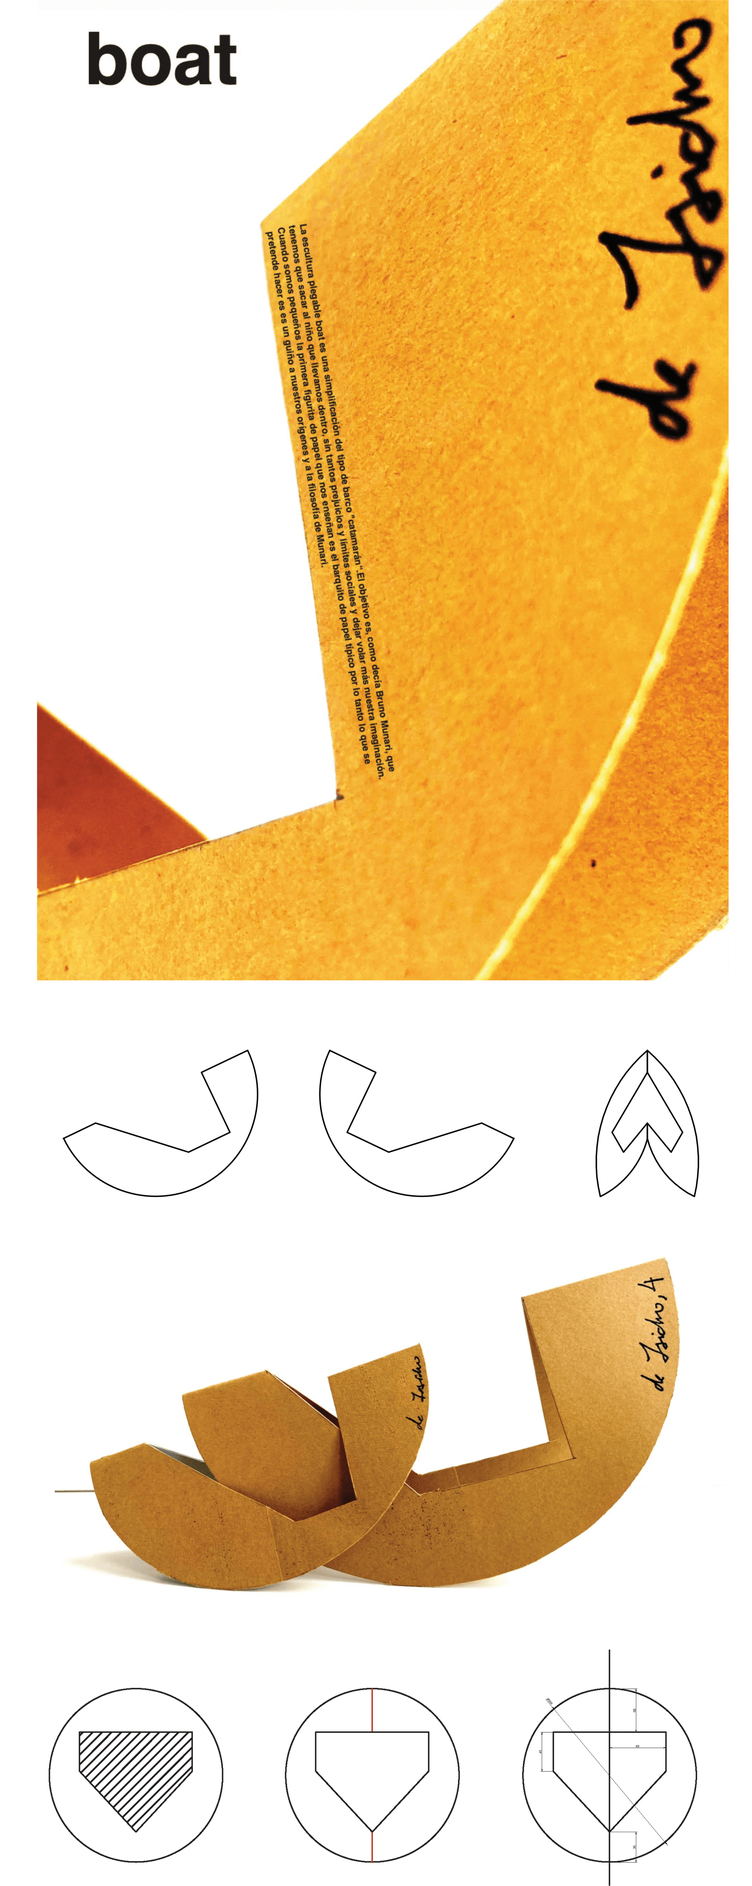
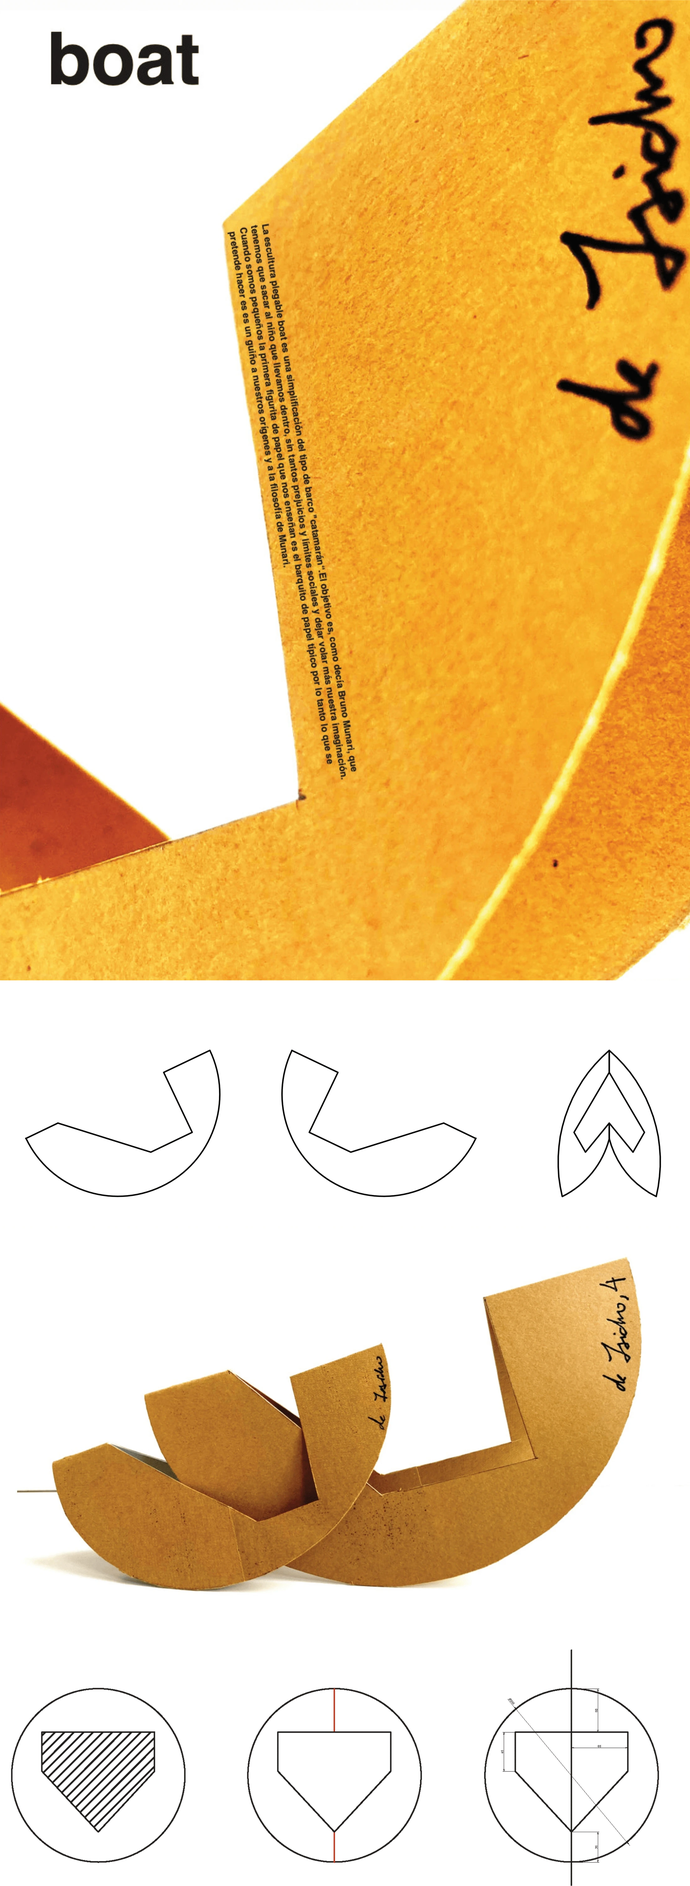
Proyectos: MITECO 2 como proyecto aparte, proyectos en Escenografía + Interiorismo, Hargok, láminas sin marcos blancos
Claude-Session: https://claude.ai/code/session_01Tckd7FRN1Wj5sD4FJaZp8R

diff --git a/src/components/ProjectsPage.jsx b/src/components/ProjectsPage.jsx
@@ -9,7 +9,7 @@ const projectItems = [
   { id: 'el-circulo', title: 'Juguete de construcción El Círculo', location: 'Madrid, España', category: 'graphic', iconSrc: '/proyectos/iconos/el_circulo.png', imageSrc: '/proyectos/imagenes/el_circulo.png' },
   { id: 'cartel-teatro', title: 'Cartel de teatro', location: 'Madrid, España', category: 'graphic', iconSrc: '/proyectos/iconos/intereses_creado.png', imageSrc: '/proyectos/imagenes/intereses_creado.png' },
   { id: 'el-rastro', title: 'Identidad Corporativa El Rastro', location: 'Madrid, España', category: 'graphic', iconSrc: '/proyectos/iconos/el_rastro.png', imageSrc: '/proyectos/imagenes/el_rastro.png' },
-  { id: 'hargok', title: 'Tipografía Harvok', location: 'Madrid, España', category: 'graphic', iconSrc: '/proyectos/iconos/hargok.png', imageSrc: '/proyectos/imagenes/hargok.png' },
+  { id: 'hargok', title: 'Tipografía Hargok', location: 'Madrid, España', category: 'graphic', iconSrc: '/proyectos/iconos/hargok.png', imageSrc: '/proyectos/imagenes/hargok.png' },
   { id: 'haz', title: 'Lámpara HAZ', location: 'Segovia, España', category: 'graphic', iconSrc: '/proyectos/iconos/HAZ.png', imageSrc: '/proyectos/imagenes/HAZ.png' },
   { id: 'podcast', title: 'Identidad Corporativa Podcast', location: 'Madrid, España', category: 'graphic', iconSrc: '/proyectos/iconos/xrail.png', imageSrc: '/proyectos/imagenes/xrail.png' },
   { id: 'eneo', title: 'Identidad Corporativa Eneo', location: 'Madrid, España', category: 'graphic', iconSrc: '/proyectos/iconos/eneo.png', imageSrc: '/proyectos/imagenes/eneo.png' },
@@ -18,27 +18,28 @@ const projectItems = [
   { id: 'ilustraciones', title: 'Colección de Ilustraciones', location: 'Villaviciosa (Madrid), España', category: 'graphic', iconSrc: '/proyectos/iconos/plantae.png', imageSrc: '/proyectos/imagenes/plantae.png' },
   { id: 'cross', title: 'Silla CROSS', location: 'Madrid, España', category: 'graphic', iconSrc: '/proyectos/iconos/CROSS.png', imageSrc: '/proyectos/imagenes/CROSS.png' },
   { id: 'ufv', title: 'Escenografía UFV', location: 'Madrid, España', category: 'scenography', iconSrc: '/proyectos/iconos/UFV.png', imageSrc: '/proyectos/imagenes/UFV.png' },
-  { id: 'playground', title: 'Vivienda experimental y Playground', location: 'Pontevedra, España', category: 'scenography', iconSrc: '/proyectos/iconos/hormiguero.png', imageSrc: '/proyectos/imagenes/hormiguero.png' },
+  { id: 'playground', title: 'Vivienda experimental y Playground', location: 'Pontevedra, España', category: ['scenography', 'interiors'], iconSrc: '/proyectos/iconos/hormiguero.png', imageSrc: '/proyectos/imagenes/hormiguero.png' },
   { id: 'capilla', title: 'Diseño e iluminación Capilla', location: 'Madrid, España', category: 'interiors', iconSrc: '/proyectos/iconos/ETSAM.png', imageSrc: '/proyectos/imagenes/ETSAM.png' },
   { id: 'pg', title: 'Identidad Corporativa PG', location: 'Madrid, España', category: 'graphic', iconSrc: '/proyectos/iconos/corporativa_pg.png', imageSrc: '/proyectos/imagenes/corporativa_pg.png' },
   { id: 'boat', title: 'Escultura Boat', location: 'Madrid, España', category: 'graphic', iconSrc: '/proyectos/iconos/el_barco.png', imageSrc: '/proyectos/imagenes/el_barco.png' },
   { id: 'telefonica', title: 'Proyecto de Oficinas en Edificio Telef\u00f3nica', location: 'Madrid, Espa\u00f1a', category: 'interiors', iconSrc: '/proyectos/iconos/edificio_telefonica.png', imageSrc: '/proyectos/imagenes/edificio_telefonica.png' },
   { id: 'miteco', title: 'Proyecto Paisajismo MITECO', location: 'Madrid, Espa\u00f1a', category: 'landscape', iconSrc: '/proyectos/iconos/MITECO.png', imageSrc: '/proyectos/imagenes/MITECO.png' },
+  { id: 'miteco-2', title: 'Proyecto Paisajismo MITECO 2', location: 'Madrid, Espa\u00f1a', category: 'landscape', iconSrc: '/proyectos/iconos/MITECO.png', imageSrc: '/proyectos/imagenes/miteco_2.jpg' },
   { id: 'el-bosque', title: 'Centro cultural El Bosque', location: 'Madrid, Espa\u00f1a', category: 'interiors', iconSrc: '/proyectos/iconos/EL_BOSQUE.png', imageSrc: '/proyectos/imagenes/EL_BOSQUE.png' },
   { id: 'album-musical', title: 'Direcci\u00f3n de arte \u00e1lbum musical', location: 'Madrid, Espa\u00f1a', category: ['art-direction', 'graphic'], iconSrc: '/proyectos/iconos/albun_musical.png', imageSrc: '/proyectos/imagenes/albun_musical.png' },
-  { id: 'espacio-expositivo', title: 'Espacio expositivo temporal 2021', location: 'Madrid, España', category: 'scenography', iconSrc: '/proyectos/iconos/temporal_2021.png', imageSrc: '/proyectos/imagenes/temporal_2021.png' },
+  { id: 'espacio-expositivo', title: 'Espacio expositivo temporal 2021', location: 'Madrid, España', category: ['scenography', 'interiors'], iconSrc: '/proyectos/iconos/temporal_2021.png', imageSrc: '/proyectos/imagenes/temporal_2021.png' },
   { id: 'v-karting', title: 'Dise\u00f1o Logotipo y Livery V.Karting', location: 'Villaviciosa (Madrid), Espa\u00f1a', category: 'graphic', iconSrc: '/proyectos/iconos/v_karting.png', imageSrc: '/proyectos/imagenes/v_karting.png' },
   { id: 'soldrink', title: 'Branding y etiquetas bodega', location: 'Toledo, Espa\u00f1a', category: 'graphic', iconSrc: '/proyectos/iconos/soldrink.png', imageSrc: '/proyectos/imagenes/soldrink.png' },
-  { id: 'efimero', title: 'Stand efímero de venta', location: 'Madrid, España', category: 'scenography', iconSrc: '/proyectos/iconos/efimero.png', imageSrc: '/proyectos/imagenes/efimero.png' },
+  { id: 'efimero', title: 'Stand efímero de venta', location: 'Madrid, España', category: ['scenography', 'interiors'], iconSrc: '/proyectos/iconos/efimero.png', imageSrc: '/proyectos/imagenes/efimero.png' },
   { id: 'nave-16', title: 'Residencia artística en Nave 16', location: 'Madrid, España', category: 'interiors', iconSrc: '/proyectos/iconos/nave_16.png', imageSrc: '/proyectos/imagenes/nave_16.png' },
 ]
 
 const englishProjectTitles = {
-  'el-circulo': 'The Circle construction toy', 'cartel-teatro': 'Theatre poster', 'el-rastro': 'El Rastro corporate identity', hargok: 'Harvok typeface', haz: 'HAZ lamp', podcast: 'Podcast corporate identity', eneo: 'Eneo corporate identity', 'fiestas-locales': 'Local festivities poster', packaging: 'Editorial design and packaging', ilustraciones: 'Illustration collection', cross: 'CROSS chair', ufv: 'UFV scenography', playground: 'Experimental housing and playground', capilla: 'Chapel design and lighting', pg: 'PG corporate identity', boat: 'Boat sculpture', telefonica: 'Office project in the Telef\u00f3nica building', miteco: 'MITECO landscaping project', 'miteco-2': 'MITECO landscaping project 2', 'el-bosque': 'El Bosque cultural centre', 'album-musical': 'Art direction for a music album', 'espacio-expositivo': 'Temporary exhibition space 2021', 'v-karting': 'V.Karting logo and livery design', soldrink: 'Winery branding and labels', efimero: 'Ephemeral sales stand', 'nave-16': 'Artists\' residency at Nave 16',
+  'el-circulo': 'The Circle construction toy', 'cartel-teatro': 'Theatre poster', 'el-rastro': 'El Rastro corporate identity', hargok: 'Hargok typeface', haz: 'HAZ lamp', podcast: 'Podcast corporate identity', eneo: 'Eneo corporate identity', 'fiestas-locales': 'Local festivities poster', packaging: 'Editorial design and packaging', ilustraciones: 'Illustration collection', cross: 'CROSS chair', ufv: 'UFV scenography', playground: 'Experimental housing and playground', capilla: 'Chapel design and lighting', pg: 'PG corporate identity', boat: 'Boat sculpture', telefonica: 'Office project in the Telef\u00f3nica building', miteco: 'MITECO landscaping project', 'miteco-2': 'MITECO landscaping project 2', 'el-bosque': 'El Bosque cultural centre', 'album-musical': 'Art direction for a music album', 'espacio-expositivo': 'Temporary exhibition space 2021', 'v-karting': 'V.Karting logo and livery design', soldrink: 'Winery branding and labels', efimero: 'Ephemeral sales stand', 'nave-16': 'Artists\' residency at Nave 16',
 }
 
 const italianProjectTitles = {
-  'el-circulo': 'Gioco di costruzioni The Circle', 'cartel-teatro': 'Manifesto teatrale', 'el-rastro': 'Identita visiva El Rastro', hargok: 'Carattere Harvok', haz: 'Lampada HAZ', podcast: 'Identita visiva Podcast', eneo: 'Identita visiva Eneo', 'fiestas-locales': 'Manifesto delle feste locali', packaging: 'Design editoriale e packaging', ilustraciones: 'Collezione di illustrazioni', cross: 'Sedia CROSS', ufv: 'Scenografia UFV', playground: 'Abitazione sperimentale e Playground', capilla: 'Progetto illuminotecnico per cappella', pg: 'Identita visiva PG', boat: 'Scultura Boat', telefonica: "Progetto di uffici nell'edificio Telefonica", miteco: 'Progetto paesaggistico MITECO', 'miteco-2': 'Progetto paesaggistico MITECO 2', 'el-bosque': 'Centro culturale El Bosque', 'album-musical': 'Direzione artistica per album musicale', 'espacio-expositivo': 'Spazio espositivo temporaneo 2021', 'v-karting': 'Design del logo e livrea V.Karting', soldrink: 'Branding ed etichette per cantina', efimero: 'Stand di vendita temporaneo', 'nave-16': 'Residenza artistica presso Nave 16',
+  'el-circulo': 'Gioco di costruzioni The Circle', 'cartel-teatro': 'Manifesto teatrale', 'el-rastro': 'Identità visiva El Rastro', hargok: 'Carattere Hargok', haz: 'Lampada HAZ', podcast: 'Identità visiva Podcast', eneo: 'Identità visiva Eneo', 'fiestas-locales': 'Manifesto delle feste locali', packaging: 'Design editoriale e packaging', ilustraciones: 'Collezione di illustrazioni', cross: 'Sedia CROSS', ufv: 'Scenografia UFV', playground: 'Abitazione sperimentale e Playground', capilla: 'Progetto illuminotecnico per cappella', pg: 'Identità visiva PG', boat: 'Scultura Boat', telefonica: "Progetto di uffici nell'edificio Telefónica", miteco: 'Progetto paesaggistico MITECO', 'miteco-2': 'Progetto paesaggistico MITECO 2', 'el-bosque': 'Centro culturale El Bosque', 'album-musical': 'Direzione artistica per album musicale', 'espacio-expositivo': 'Spazio espositivo temporaneo 2021', 'v-karting': 'Design del logo e livrea V.Karting', soldrink: 'Branding ed etichette per cantina', efimero: 'Stand di vendita temporaneo', 'nave-16': 'Residenza artistica presso Nave 16',
 }
 
 projectItems[0].title = 'The Circle'

diff --git a/src/components/HargokProjectPage.jsx b/src/components/HargokProjectPage.jsx
@@ -4,6 +4,6 @@ import PageFooter from './PageFooter'
 import PageHeader from './PageHeader'
 import ProjectsFilterBar from './ProjectsFilterBar'
 
-const copy = { es: { title: 'Tipograf\u00eda Harvok', location: 'Madrid, Espa\u00f1a', details: 'DATOS PROYECTO', paragraphs: ['Dise\u00f1o de dos tipograf\u00edas sans serif de creaci\u00f3n propia, desarrolladas en colaboraci\u00f3n con otro dise\u00f1ador a partir de una idea com\u00fan: reducir la letra a su m\u00ednima expresi\u00f3n sin perder su identidad. Inspiradas en la s\u00edntesis del cuerpo humano, ambas propuestas trabajan con l\u00edneas rectas, diagonales y formas geom\u00e9tricas que eliminan lo accesorio para quedarse \u00fanicamente con lo esencial.', 'M\u00e1s que tipograf\u00edas convencionales, el proyecto funciona como un ejercicio de percepci\u00f3n visual. Algunas letras se completan en la mente del lector, generando un equilibrio entre orden y ausencia, estructura e intuici\u00f3n. Las composiciones tipogr\u00e1ficas exploran esa tensi\u00f3n entre lo legible y lo abstracto, convirtiendo la letra en imagen y haciendo que el dise\u00f1o no solo se lea, sino que tambi\u00e9n se interprete.'], facts: [['Fecha', '2021'], ['Estado', 'Proyecto'], ['Equipo', 'Sergio de Isidro + Javier M\u00aa Alonso']] }, en: { title: 'Harvok typeface', location: 'Madrid, Spain', details: 'PROJECT DETAILS', paragraphs: ['Design of two original sans-serif typefaces, developed in collaboration with another designer from a shared idea: reducing the letter to its most minimal expression without losing its identity. Inspired by the synthesis of the human body, both proposals use straight lines, diagonals and geometric forms to remove the superfluous and retain only the essential.', 'More than conventional typefaces, the project works as an exercise in visual perception. Some letters are completed in the reader\'s mind, creating a balance between order and absence, structure and intuition. The typographic compositions explore that tension between the legible and the abstract, turning the letter into an image and making design something to interpret as well as read.'], facts: [['Date', '2021'], ['Status', 'Project'], ['Team', 'Sergio de Isidro + Javier M. Alonso']] } }
+const copy = { es: { title: 'Tipograf\u00eda Hargok', location: 'Madrid, Espa\u00f1a', details: 'DATOS PROYECTO', paragraphs: ['Dise\u00f1o de dos tipograf\u00edas sans serif de creaci\u00f3n propia, desarrolladas en colaboraci\u00f3n con otro dise\u00f1ador a partir de una idea com\u00fan: reducir la letra a su m\u00ednima expresi\u00f3n sin perder su identidad. Inspiradas en la s\u00edntesis del cuerpo humano, ambas propuestas trabajan con l\u00edneas rectas, diagonales y formas geom\u00e9tricas que eliminan lo accesorio para quedarse \u00fanicamente con lo esencial.', 'M\u00e1s que tipograf\u00edas convencionales, el proyecto funciona como un ejercicio de percepci\u00f3n visual. Algunas letras se completan en la mente del lector, generando un equilibrio entre orden y ausencia, estructura e intuici\u00f3n. Las composiciones tipogr\u00e1ficas exploran esa tensi\u00f3n entre lo legible y lo abstracto, convirtiendo la letra en imagen y haciendo que el dise\u00f1o no solo se lea, sino que tambi\u00e9n se interprete.'], facts: [['Fecha', '2021'], ['Estado', 'Proyecto'], ['Equipo', 'Sergio de Isidro + Javier M\u00aa Alonso']] }, en: { title: 'Hargok typeface', location: 'Madrid, Spain', details: 'PROJECT DETAILS', paragraphs: ['Design of two original sans-serif typefaces, developed in collaboration with another designer from a shared idea: reducing the letter to its most minimal expression without losing its identity. Inspired by the synthesis of the human body, both proposals use straight lines, diagonals and geometric forms to remove the superfluous and retain only the essential.', 'More than conventional typefaces, the project works as an exercise in visual perception. Some letters are completed in the reader\'s mind, creating a balance between order and absence, structure and intuition. The typographic compositions explore that tension between the legible and the abstract, turning the letter into an image and making design something to interpret as well as read.'], facts: [['Date', '2021'], ['Status', 'Project'], ['Team', 'Sergio de Isidro + Javier M. Alonso']] } }
 
 export default function HargokProjectPage({ onBack, onNavigate }) { const { language } = useLanguage(); const content = language === 'it' ? getItalianProjectContent(copy) : copy[language] ?? copy.en; return <section className="projects-page project-detail-page"><PageHeader activePage="projects" onBack={onBack} onNavigate={onNavigate} /><ProjectsFilterBar activeFilter="graphic" /><div className="project-detail-layout"><div className="project-detail-visual"><img className="project-detail-image" src="/pages/proyectos/hagok.svg" alt={content.title} /></div><aside className="project-detail-sidebar"><h1>{content.title}</h1><p className="project-detail-location">{content.location}</p><div className="project-detail-copy">{content.paragraphs.map((paragraph) => <p key={paragraph}>{paragraph}</p>)}</div><div className="project-detail-meta"><h2>{content.details}</h2><div className="project-detail-facts">{content.facts.map(([label, value]) => <div key={label} className="project-detail-fact"><p className="project-detail-fact-label">{label}</p><p className="project-detail-fact-value">{value}</p></div>)}</div></div></aside></div><PageFooter /></section> }

diff --git a/src/content/italianProjectContent.js b/src/content/italianProjectContent.js
@@ -3,7 +3,7 @@ const projectTranslations = {
   'The Circle construction toy': ['Gioco di costruzioni The Circle', 'The Circle è un gioco di costruzioni in legno che trasforma la geometria in un linguaggio creativo. Ispirato allo spirito sperimentale del Bauhaus, esplora modularità, volume e composizione attraverso pezzi pensati per costruire architetture, tipografie e sculture astratte.', 'Grazie alle proporzioni e agli angoli di ogni elemento, le combinazioni sono praticamente infinite. È un oggetto senza età, progettato per imparare giocando e realizzato con legno proveniente da foreste gestite in modo sostenibile.'],
   'Theatre poster': ['Manifesto teatrale', 'Manifesto scelto dall’Universidad Francisco de Vitoria come immagine ufficiale della rappresentazione di Los intereses creados di Jacinto Benavente. Il progetto reinterpreta l’opera attraverso mani e fili, simboli di manipolazione e legami invisibili.', 'La combinazione di disegno gestuale e acquerello si allontana dal manifesto teatrale tradizionale per offrire una lettura più contemporanea, emotiva e diretta.'],
   'El Rastro corporate identity': ['Identità visiva El Rastro', 'El Rastro è un’identità visiva progettata per una residenza artistica legata alla memoria urbana di Madrid. Il progetto recupera il peso storico del luogo senza nostalgia, trasformandolo in un’immagine grafica attuale, aperta e culturale.', 'Il logotipo nasce da linee rette e proporzioni architettoniche che richiamano l’angolo di un edificio. La tipografia entra nella struttura come finestre e porte, dando vita a un’identità solida e riconoscibile.'],
-  'Harvok typeface': ['Carattere Harvok', 'Progetto di due caratteri sans serif originali, sviluppati in collaborazione a partire da un’idea comune: ridurre la lettera alla sua espressione minima senza perderne l’identità. Le forme lavorano con linee rette, diagonali e geometrie essenziali.', 'Più che caratteri convenzionali, le proposte diventano un esercizio di percezione visiva. Alcune lettere si completano nella mente del lettore, creando un equilibrio tra ordine, assenza, struttura e intuizione.'],
+  'Hargok typeface': ['Carattere Hargok', 'Progetto di due caratteri sans serif originali, sviluppati in collaborazione a partire da un’idea comune: ridurre la lettera alla sua espressione minima senza perderne l’identità. Le forme lavorano con linee rette, diagonali e geometrie essenziali.', 'Più che caratteri convenzionali, le proposte diventano un esercizio di percezione visiva. Alcune lettere si completano nella mente del lettore, creando un equilibrio tra ordine, assenza, struttura e intuizione.'],
   'HAZ lamp': ['Lampada HAZ', 'HAZ LAMP è una lampada pensata per accompagnare senza attirare l’attenzione. La luce indiretta crea un’atmosfera calda e tranquilla, filtrata da una carta speciale che rende l’illuminazione uniforme e avvolgente.', 'Realizzata in legno, carta e cartone riciclati, combina semplicità formale e funzionalità in un oggetto leggero, smontabile e riutilizzabile.'],
   'Podcast corporate identity': ['Identità visiva Podcast', 'X-RAIL è un’identità creata per un podcast dedicato a leadership, crescita personale e direzione. La marca nasce dall’idea di una voce vicina capace di accompagnare le persone nei momenti di cambiamento.', 'Il logotipo è costruito con linee che diventano percorsi e lettere. L’identità combina trasparenza ed eleganza per esprimere forza, chiarezza, fiducia e movimento costante.'],
   'Eneo corporate identity': ['Identità visiva Eneo', 'Il marchio nasce per offrire alimentazione di alta qualità a conigli e piccoli roditori, ponendo cura e benessere animale al centro del progetto. L’identità comunica vicinanza, fiducia e attenzione al dettaglio.', 'Il logotipo usa una tipografia minuscola, stretta e disegnata a mano. Il ritmo variabile e le forme arrotondate danno vita a un’identità artigianale, moderna ed elegante.'],

diff --git a/src/components/MitecoProjectPage.jsx b/src/components/MitecoProjectPage.jsx
@@ -1,4 +1,3 @@
 import ProjectDetailPage from './ProjectDetailPage'
-import { miteco2Copy } from './Miteco2ProjectPage'
 const copy = { es: { title: 'Proyecto de paisajismo MITECO', location: 'Madrid, Espa\u00f1a', alt: 'Panel del proyecto Paisajismo MITECO', details: 'DATOS PROYECTO', paragraphs: ['Marea es una propuesta espacial inspirada en la idea del anillo verde que rodea Madrid y en c\u00f3mo un recorrido puede activar un lugar sin fragmentarlo. El proyecto introduce una estructura continua que atraviesa el espacio y conecta distintas actividades.', 'La geometr\u00eda ondulante y el juego de alturas crean movimiento, m\u00faltiples formas de uso y de circulaci\u00f3n. La intervenci\u00f3n funciona como un paisaje interior que organiza el espacio mediante ritmo, continuidad y relaci\u00f3n con el entorno.'], facts: [{ label: 'Superficie', value: '250 m2' }, { label: 'Fecha', value: '2023' }, { label: 'Estado', value: 'Proyecto' }, { label: 'Cliente', value: 'MITECO' }, { label: 'Equipo', value: 'Sergio de Isidro' }] }, en: { title: 'MITECO landscape project', location: 'Madrid, Spain', alt: 'MITECO landscape project panel', details: 'PROJECT DETAILS', paragraphs: ['Marea is a spatial proposal inspired by Madrid\'s green belt and by how a route can activate a place without fragmenting it. The project introduces a continuous structure that crosses the space and connects different activities.', 'Undulating geometry and changes in level create movement, varied uses and circulation. The intervention works as an interior landscape that organises the space through rhythm, continuity and its relationship with the surroundings.'], facts: [{ label: 'Area', value: '250 m2' }, { label: 'Date', value: '2023' }, { label: 'Status', value: 'Project' }, { label: 'Client', value: 'MITECO' }, { label: 'Team', value: 'Sergio de Isidro' }] } }
-export default function MitecoProjectPage(props) { return <ProjectDetailPage {...props} activeFilter="landscape" image="/pages/proyectos/MITECO.webp" copy={copy} variants={[{ image: '/pages/proyectos/MITECO.webp', copy }, { image: '/pages/proyectos/miteco_2.jpg', copy: miteco2Copy }]} /> }
+export default function MitecoProjectPage(props) { return <ProjectDetailPage {...props} activeFilter="landscape" image="/pages/proyectos/MITECO.webp" copy={copy} /> }

diff --git a/src/content/pageMeta.js b/src/content/pageMeta.js
@@ -120,7 +120,7 @@ export const pageMeta = {
     "image": "/og/fiestas-locales.jpg"
   },
   "project-hargok": {
-    "title": "Tipografía Harvok · M047",
+    "title": "Tipografía Hargok · M047",
     "description": "Diseño de dos tipografías sans serif de creación propia, desarrolladas en colaboración con otro diseñador a partir de una idea común: reducir la letra a su mínima expresión sin perder su…",
     "image": "/og/hargok.jpg"
   },
@@ -133,6 +133,11 @@ export const pageMeta = {
     "title": "Colección de ilustraciones · M047",
     "description": "Proyecto de ilustración para el catálogo de Plantae, una empresa especializada en soluciones tecnológicas para la monitorización y gestión de cultivos. El trabajo traduce procesos complejos de…",
     "image": "/og/ilustraciones.jpg"
+  },
+  "project-miteco-2": {
+    "title": "Proyecto Paisajismo MITECO 2 · M047",
+    "description": "Segunda propuesta para el MITECO: una malla de setos recortados y superficies de tierra que organiza el vacío y crea una experiencia contemplativa y sensorial.",
+    "image": "/og/miteco-2.jpg"
   },
   "project-miteco": {
     "title": "Proyecto de paisajismo MITECO · M047",

diff --git a/src/components/AppPageRouter.jsx b/src/components/AppPageRouter.jsx
@@ -20,6 +20,7 @@ import HargokProjectPage from './HargokProjectPage'
 import HazProjectPage from './HazProjectPage'
 import IlustracionesProjectPage from './IlustracionesProjectPage'
 import MitecoProjectPage from './MitecoProjectPage'
+import Miteco2ProjectPage from './Miteco2ProjectPage'
 import Nave16ProjectPage from './Nave16ProjectPage'
 import NewsArticlePage from './NewsArticlePage'
 import NewsPage from './NewsPage'
@@ -52,6 +53,7 @@ const projectPages = {
   'project-haz': HazProjectPage,
   'project-ilustraciones': IlustracionesProjectPage,
   'project-miteco': MitecoProjectPage,
+  'project-miteco-2': Miteco2ProjectPage,
   'project-nave-16': Nave16ProjectPage,
   'project-packaging': PackagingProjectPage,
   'project-pg': PgProjectPage,

diff --git a/CLAUDE.md b/CLAUDE.md
@@ -256,3 +256,13 @@ claro en español.
   justificado con guiones; fichas Artemide y LITESTAR copiadas del PDF
   original `Capilla1.pdf` de Drive a la misma escala). Script y original en
   scratchpad `capfix/`. Páginas legales sin datos personales (decisión de Sergio).
+- 2026-11-12 (9): páginas de proyecto: tipografía según Sergio (título 100 pt
+  ≈ 3,6vw negrita en una sola línea —`fitProjectTitles` en AppPageRouter lo
+  reduce si no cabe—, localización 35 pt ≈ 1,26vw negrita, texto 36 pt ≈
+  1,3vw normal). Cartel de teatro/UFV: texto SVG rehecho (centrado, Arial).
+  Enlaces de Eneo, Packaging, Ilustraciones, PG y Álbum corregidos. Proyectos
+  en 2 departamentos (`category` puede ser lista): Álbum (dirección de arte +
+  gráfico); Stand efímero, Espacio expositivo y Playground (escenografía +
+  interiorismo). MITECO 2 es un proyecto aparte (/proyectos/miteco-2), sin
+  botones de versión. "Hargok" (no Harvok). Marcos blancos recortados en
+  Boat, Ilustraciones, PG y El Bosque. Buscador: Sergio lo deja como está.
